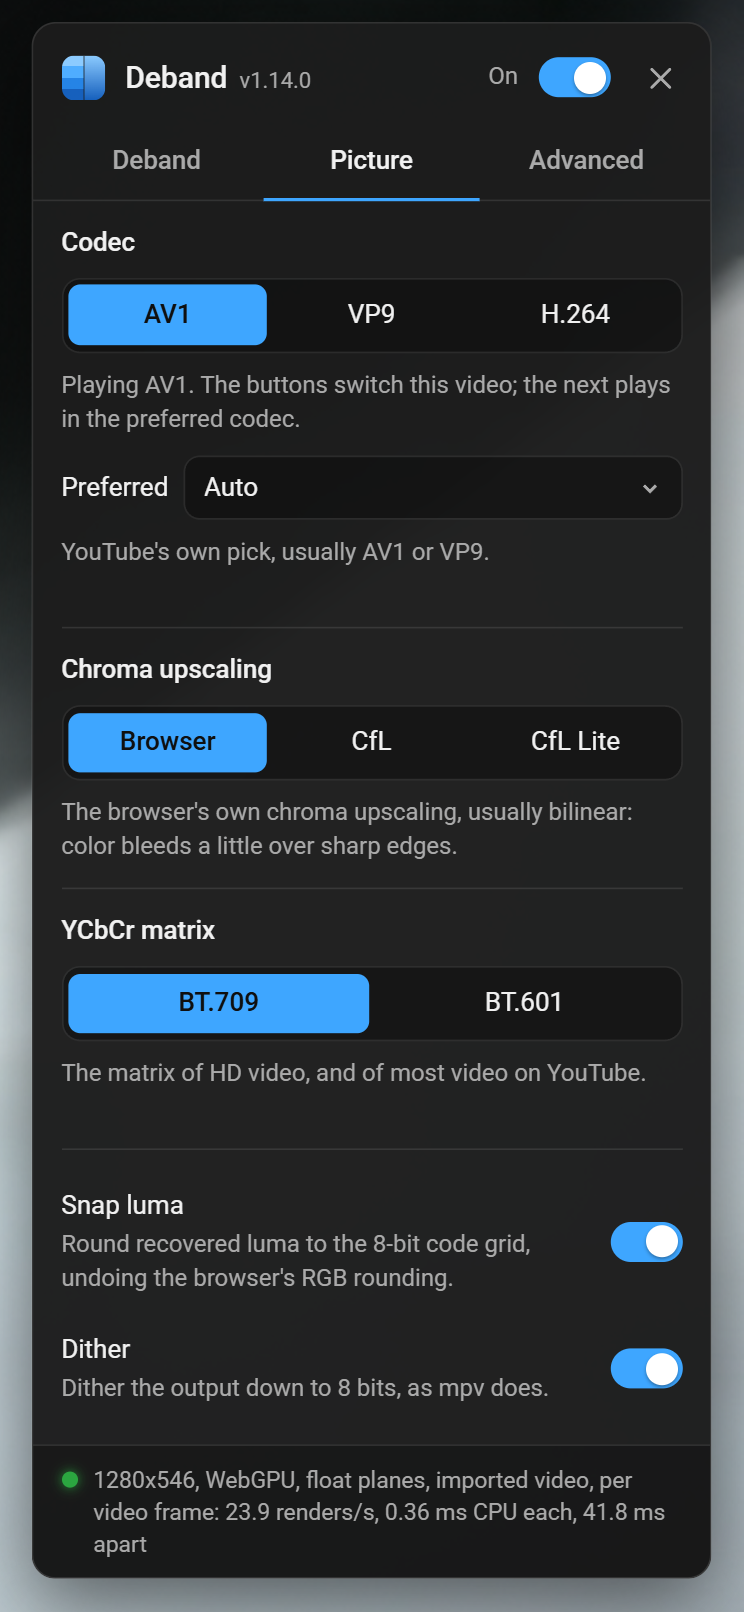
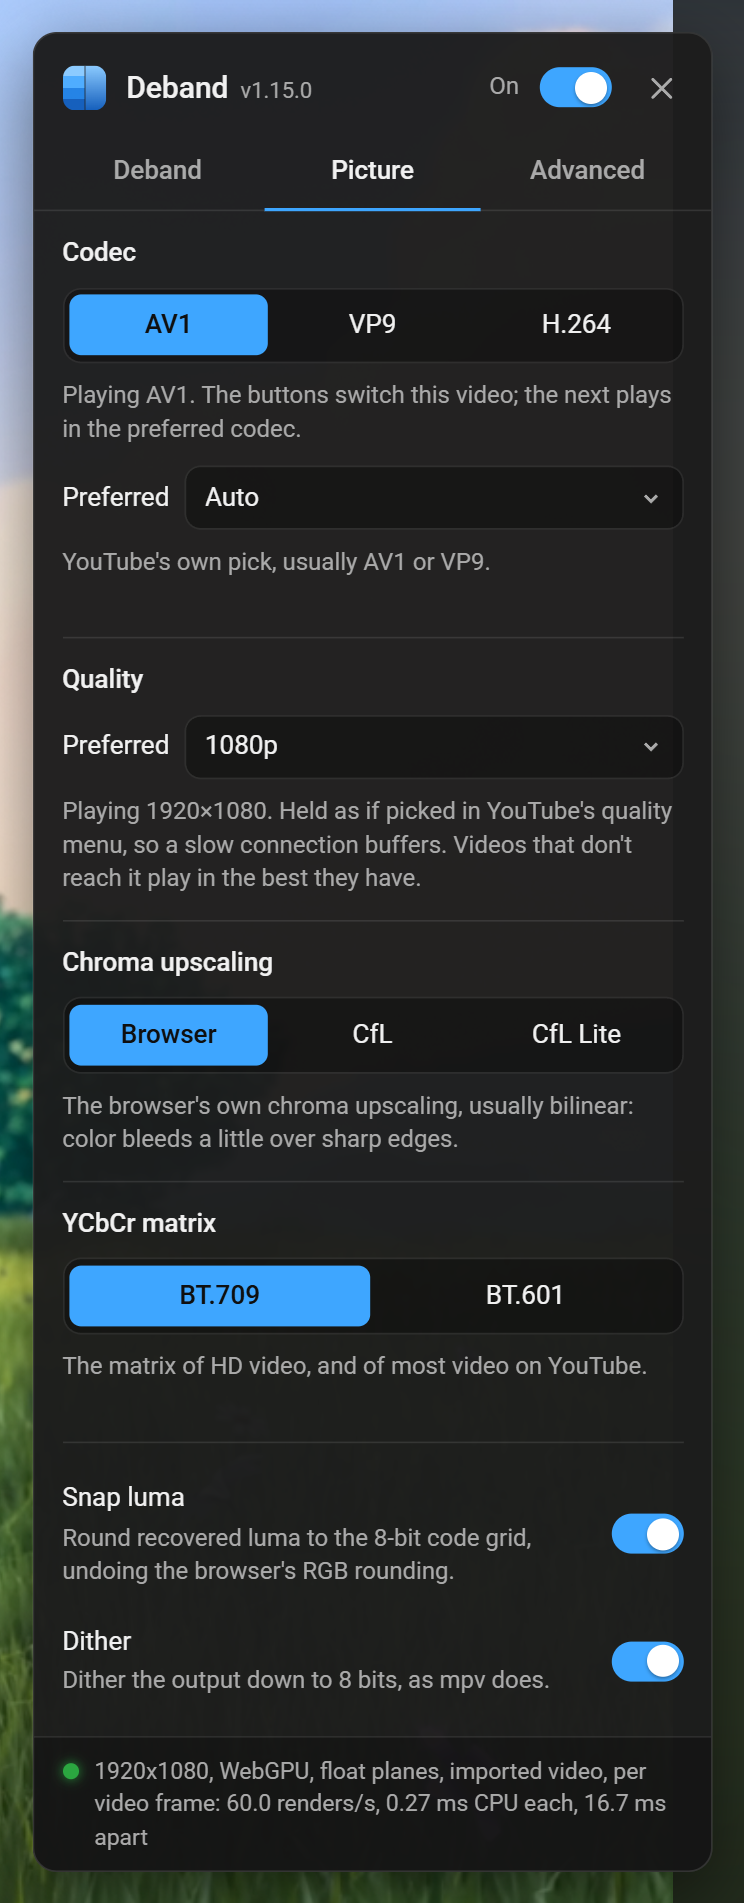
Add a preferred quality, bump to 1.15.0

diff --git a/youtube-deband.user.js b/youtube-deband.user.js
@@ -1,7 +1,7 @@
 // ==UserScript==
 // @name         YouTube Deband (mpv / libplacebo)
 // @namespace    youtube-deband
-// @version      1.14.2
+// @version      1.15.0
 // @description  Debands YouTube video in WebGPU or WebGL using a port of mpv's deband shaders (vo=gpu-next / libplacebo and legacy vo=gpu), with mpv's parameters.
 // @match        *://*.youtube.com/*
 // @match        *://www.youtube-nocookie.com/*
@@ -44,7 +44,8 @@
  *
  * Codecs: the player is steered to AV1, VP9 or H.264 by dropping the other
  * codecs' formats from YouTube's player responses, from a script run in the
- * page's own JavaScript world (see the Codecs section).
+ * page's own JavaScript world (see the Codecs section). The preferred quality
+ * is set from there too, through the player's own API.
  *
  * Hotkeys (default): Ctrl+Alt+D toggles debanding, Ctrl+Alt+B opens the
  * settings panel; both can be re-recorded in the panel. The DB button in the
@@ -58,7 +59,7 @@
     const PRESETS_KEY = 'yt-deband-presets'; // the user's own presets, apart so Reset keeps them
     const PANEL_POS_KEY = 'yt-deband-panel-pos'; // where the panel was dragged to, apart so Reset keeps it
     const SWITCH_KEY = 'yt-deband-codec-switch'; // in sessionStorage: { video, codec } switched to for one video
-    const VERSION = '1.14.2'; // keep in sync with @version
+    const VERSION = '1.15.0'; // keep in sync with @version
 
     // Option ranges match mpv's deband_conf (video/out/gpu/video_shaders.c)
     const DEFAULTS = {
@@ -77,6 +78,7 @@
                             // Browsers hand over the frame as 8-bit RGB, so RGBA16F gains nothing
         backend: 'auto',    // 'auto' | 'webgpu' | 'webgl2' | 'webgl1'
         codec: 'auto',      // video codec to steer YouTube to: 'auto' (its own pick) | 'av1' | 'vp9' | 'h264'
+        quality: 'auto',    // quality to play videos in: 'auto' (YouTube's pick) | 'highest' | a QUALITIES level
         hotkeyToggle: 'Ctrl+Alt+d',
         hotkeyPanel: 'Ctrl+Alt+b',
         split: false,       // left half original, right half debanded
@@ -2450,9 +2452,20 @@ fn upscaleChroma(p: vec2f, uv: vec2f, y: f32) -> vec2f { return cfl(p, y); }`;
     // see: pageCodecs reads the settings from storage, puts what a <video>
     // plays in its data-yt-deband-codec attribute with a yt-deband-codec
     // event, and reloads a video in place on a yt-deband-reload event.
+    //
+    // The preferred quality needs no steering: the player's own
+    // setPlaybackQualityRange sets it, and pageCodecs calls that once a
+    // video plays, and on a yt-deband-quality event when the preference
+    // changes. No formats are dropped, so YouTube's quality menu stays whole
+    // and a pick there holds for that video.
     // ------------------------------------------------------------------
 
     const CODECS = [['av1', 'AV1'], ['vp9', 'VP9'], ['h264', 'H.264']];
+    // The player's quality levels that can be preferred, best first
+    const QUALITIES = [
+        ['highres', '4320p (8K)'], ['hd2880', '2880p (5K)'], ['hd2160', '2160p (4K)'], ['hd1440', '1440p'], ['hd1080', '1080p'], ['hd720', '720p'],
+        ['large', '480p'], ['medium', '360p'], ['small', '240p'], ['tiny', '144p'],
+    ];
 
     // Runs fn(...args) in the page's JavaScript world. fn goes over as
     // source, so it can only use its arguments. YouTube's CSP lets an inline
@@ -2472,9 +2485,9 @@ fn upscaleChroma(p: vec2f, uv: vec2f, y: f32) -> vec2f { return cfl(p, y); }`;
         script.remove();
     }
 
-    // Steers YouTube's codec choice and reports what each player plays.
-    // Runs in the page's world (see runInPage).
-    function pageCodecs(settingsKey, switchKey) {
+    // Steers YouTube's codec choice, sets the preferred quality and reports
+    // what each player plays. Runs in the page's world (see runInPage).
+    function pageCodecs(settingsKey, switchKey, qualities) {
         const MS = window.MediaSource;
         if (!MS || window.ytDebandCodecs)
             return;
@@ -2638,6 +2651,23 @@ fn upscaleChroma(p: vec2f, uv: vec2f, y: f32) -> vec2f { return cfl(p, y); }`;
             };
         }
 
+        // By player: the quality last set, as { video, wanted, level }
+        const qualitySet = new WeakMap();
+        // Sets a player to a quality, or the best below it if the video
+        // doesn't reach it. Returns whether the player had levels yet.
+        const setQuality = (player, wanted) => {
+            const levels = player.getAvailableQualityLevels().filter((q) => q !== 'auto');
+            if (!levels.length)
+                return false;
+            const within = (q) => qualities.includes(q) && qualities.indexOf(q) >= qualities.indexOf(wanted);
+            const level = wanted === 'auto' ? 'auto'
+                : wanted === 'highest' ? levels[0]
+                : levels.find(within) || levels[levels.length - 1];
+            player.setPlaybackQualityRange(level, level);
+            qualitySet.set(player, { video: player.getVideoData().video_id, wanted, level });
+            return true;
+        };
+
         // Loads a player's video again where it was, so the player picks its
         // codec anew; a paused video stays paused
         document.addEventListener('yt-deband-reload', (e) => {
@@ -2646,7 +2676,15 @@ fn upscaleChroma(p: vec2f, uv: vec2f, y: f32) -> vec2f { return cfl(p, y); }`;
                 return;
             const data = player.getVideoData();
             const paused = player.getPlayerState() === 2;
+            // Loading forgets a set quality, and YouTube would adapt again.
+            // What was asked for goes back, not what it came to, which
+            // another codec may not have offered more than.
+            const set = qualitySet.get(player);
+            const level = player.getPreferredQuality();
+            const wanted = set && set.level === level ? set.wanted : level;
             player.loadVideoById(data.video_id, data.isLive ? undefined : player.getCurrentTime());
+            if (wanted !== 'auto')
+                e.target.addEventListener('playing', () => setQuality(player, wanted), { once: true });
             if (paused) {
                 const since = performance.now();
                 e.target.addEventListener('playing', () => {
@@ -2655,12 +2693,38 @@ fn upscaleChroma(p: vec2f, uv: vec2f, y: f32) -> vec2f { return cfl(p, y); }`;
                 }, { once: true });
             }
         });
+
+        // The preferred quality, once per video so a pick in YouTube's menu
+        // holds. Auto leaves the player alone, and so do ads and the previews
+        // that play over thumbnails.
+        document.addEventListener('playing', (e) => {
+            try {
+                const player = e.target.closest('.html5-video-player');
+                if (!player || !player.setPlaybackQualityRange || player.id === 'inline-preview-player' || player.classList.contains('ad-showing'))
+                    return;
+                const set = qualitySet.get(player);
+                const wanted = stored(localStorage, settingsKey).quality;
+                if (wanted && wanted !== 'auto' && !(set && set.video === player.getVideoData().video_id))
+                    setQuality(player, wanted);
+            } catch (err) { /* plays as YouTube picks */ }
+        }, true);
+        // A new preference applies to the video at once, or after its ad
+        document.addEventListener('yt-deband-quality', (e) => {
+            try {
+                const player = e.target.closest('.html5-video-player');
+                if (!player || !player.setPlaybackQualityRange)
+                    return;
+                qualitySet.delete(player);
+                if (!player.classList.contains('ad-showing'))
+                    setQuality(player, stored(localStorage, settingsKey).quality || 'auto');
+            } catch (err) { /* plays as YouTube picks */ }
+        });
     }
 
     try {
-        runInPage(pageCodecs, STORAGE_KEY, SWITCH_KEY);
+        runInPage(pageCodecs, STORAGE_KEY, SWITCH_KEY, QUALITIES.map(([q]) => q));
     } catch (e) {
-        console.error('[yt-deband] codec switching unavailable:', e);
+        console.error('[yt-deband] codec and quality switching unavailable:', e);
     }
 
     // What the main <video> plays, as pageCodecs put it: { codec (as in its
@@ -2717,6 +2781,12 @@ fn upscaleChroma(p: vec2f, uv: vec2f, y: f32) -> vec2f { return cfl(p, y); }`;
             return;
         codecSwitching = null;
         refreshPanel();
+    }, true);
+
+    // The player changes the <video>'s size when it changes quality
+    document.addEventListener('resize', (e) => {
+        if (e.target === video)
+            refreshPanel();
     }, true);
 
     // The player's <video>. If YouTube renames the player's classes, the
@@ -2787,6 +2857,8 @@ fn upscaleChroma(p: vec2f, uv: vec2f, y: f32) -> vec2f { return cfl(p, y); }`;
         saveSettings();
         if ('codec' in values)
             codecPreferenceChanged();
+        if ('quality' in values && video)
+            video.dispatchEvent(new Event('yt-deband-quality', { bubbles: true }));
         refreshPanel();
         // A canvas keeps its first context type, so a backend switch needs a
         // new one. Picking a renderer also gives WebGPU another chance.
@@ -3302,6 +3374,25 @@ a:hover { text-decoration: underline; }
             };
             return root;
         };
+        // The quality to prefer for every video, and the size playing now
+        const qualityPicker = () => {
+            const select = el('select', {
+                'aria-label': 'Preferred quality',
+                onchange: (e) => applySetting('quality', e.target.value),
+            }, ...[['auto', 'Auto'], ['highest', 'Highest'], ...QUALITIES].map(([v, text]) => el('option', { value: v, textContent: text })));
+            const about = el('div', { className: 'about' });
+            const root = el('div', null,
+                el('div', { className: 'row' }, el('span', { textContent: 'Preferred' }), select),
+                about);
+            root.refresh = (preferred) => {
+                select.value = preferred;
+                const size = video && video.videoHeight ? `Playing ${video.videoWidth}×${video.videoHeight}. ` : '';
+                about.textContent = size + (preferred === 'auto' ? 'YouTube picks the quality, and changes it to suit the connection.'
+                    : preferred === 'highest' ? 'The best each video comes in, held as if picked in YouTube\'s quality menu, so a slow connection buffers.'
+                    : 'Held as if picked in YouTube\'s quality menu, so a slow connection buffers. Videos that don\'t reach it play in the best they have.');
+            };
+            return root;
+        };
 
         const enabled = toggle('enabled');
         const state = el('span', { className: 'state' });
@@ -3337,6 +3428,7 @@ a:hover { text-decoration: underline; }
                 ['vp9', 'VP9', 'Decoded by the GPU on most systems from 2016 on, and offered up to 4K and beyond.'],
                 ['h264', 'H.264', 'Decoded by the GPU nearly everywhere, but YouTube usually offers it only up to 1080p, and it takes the most data.'],
             ]),
+            quality: qualityPicker(),
             matrix: choice('matrix', [
                 ['709', 'BT.709', 'The matrix of HD video, and of most video on YouTube.'],
                 ['601', 'BT.601', 'For SD videos encoded as BT.601, which need it for exact colors.'],
@@ -3413,6 +3505,7 @@ a:hover { text-decoration: underline; }
                     line('Split compare', 'Left half original, right half debanded', inputs.split))),
             picture: el('div', null,
                 group('Codec', false, inputs.codec),
+                group('Quality', false, inputs.quality),
                 group('Chroma upscaling', true, inputs.chroma),
                 group('YCbCr matrix', false, inputs.matrix),
                 group(null, false,

diff --git a/README.md b/README.md
@@ -16,13 +16,13 @@ stream of Sintel at 0:35, default settings; more in [Comparison](#comparison).</
 - mpv's four deband parameters, presets, and import from your own `mpv.conf`
 - Optional **CfL** chroma upscaling, ported from the shaders mpv users load
 - Switching the video between YouTube's **AV1**, **VP9** and **H.264** streams,
-  and a preferred codec for every video
+  and a preferred codec and quality for every video
 - Renders with WebGPU, WebGL2 or WebGL1, so it also runs in Tor and Mullvad Browser
 - A settings panel in the player and a split-screen comparison view
 
 **Contents:** [Install](#install) · [Usage](#usage) · [Comparison](#comparison) ·
 [Modes](#modes) · [Chroma upscaling](#chroma-upscaling) · [Codecs](#codecs) ·
-[Renderers](#renderers) · [Compatibility](#compatibility) · [How it works](#how-it-works) ·
+[Quality](#quality) · [Renderers](#renderers) · [Compatibility](#compatibility) · [How it works](#how-it-works) ·
 [License](#license)
 
 ## Install
@@ -46,15 +46,15 @@ Both shortcuts can be re-recorded on the panel's **Advanced** tab.
 
 <p>
   <img src="docs/panel-deband.png" width="372" align="top" alt="Settings panel, Deband tab: mode, preset, the four parameters and split compare">
-  <img src="docs/panel-picture.png" width="372" align="top" alt="Settings panel, Picture tab: codec, chroma upscaling, YCbCr matrix, luma snapping and dither">
+  <img src="docs/panel-picture.png" width="372" align="top" alt="Settings panel, Picture tab: codec, quality, chroma upscaling, YCbCr matrix, luma snapping and dither">
 </p>
 
 The panel has three tabs:
 
 - **Deband**: the mode, presets, the four parameters and the split-screen
   comparison
-- **Picture**: the video codec, chroma upscaling, the YCbCr matrix (709/601),
-  luma snapping and output dithering
+- **Picture**: the video codec, the preferred quality, chroma upscaling, the
+  YCbCr matrix (709/601), luma snapping and output dithering
 - **Advanced**: the renderer, upload precision, shortcuts, importing mpv
   options and resetting
 
@@ -255,6 +255,31 @@ removing the other codecs' streams from the list it picks from, and doesn't
 touch what the browser reports it can play, which the ads and YouTube's own
 capability checks rely on.
 
+## Quality
+
+**Quality** on the Picture tab picks the quality for every video, and shows
+the size of the video playing. Changing it applies to the video you're
+watching straight away.
+
+- **Auto** (the default) leaves it to YouTube, which goes by your connection
+  and the size of the player.
+- **Highest** plays the best each video comes in.
+- **144p** to **4320p** plays that quality. Videos that don't reach it play in
+  the best they have, so 1440p on a 1080p video plays 1080p.
+
+The quality is held, as when you pick one in YouTube's own quality menu, so on
+a slow connection the video buffers instead of dropping to a lower one. That
+menu keeps working: a pick there lasts for that video, also when you switch
+its codec, and the next one plays in the preferred quality.
+
+The codec counts too: H.264 usually stops at 1080p, so a preferred H.264 caps
+the quality there. Ads and the previews that play over thumbnails are left
+alone.
+
+Another extension that sets the quality, such as Video Quality Fixer for
+YouTube, overrides this one, since the script takes any later change for a
+pick in YouTube's menu. Use one or the other.
+
 ## Renderers
 
 **Renderer** on the Advanced tab picks the graphics API. **Auto** (the
@@ -303,8 +328,8 @@ data resets them.
 
 Watch pages, theater mode, fullscreen and embeds (including
 youtube-nocookie.com). YouTube Music is excluded. Shorts and m.youtube.com
-are untested, and on mobile there is no DB button. Codec switching is
-untested in embeds.
+are untested, and on mobile there is no DB button. Codec switching and the
+preferred quality are untested in embeds.
 
 ### Videos it skips
 
